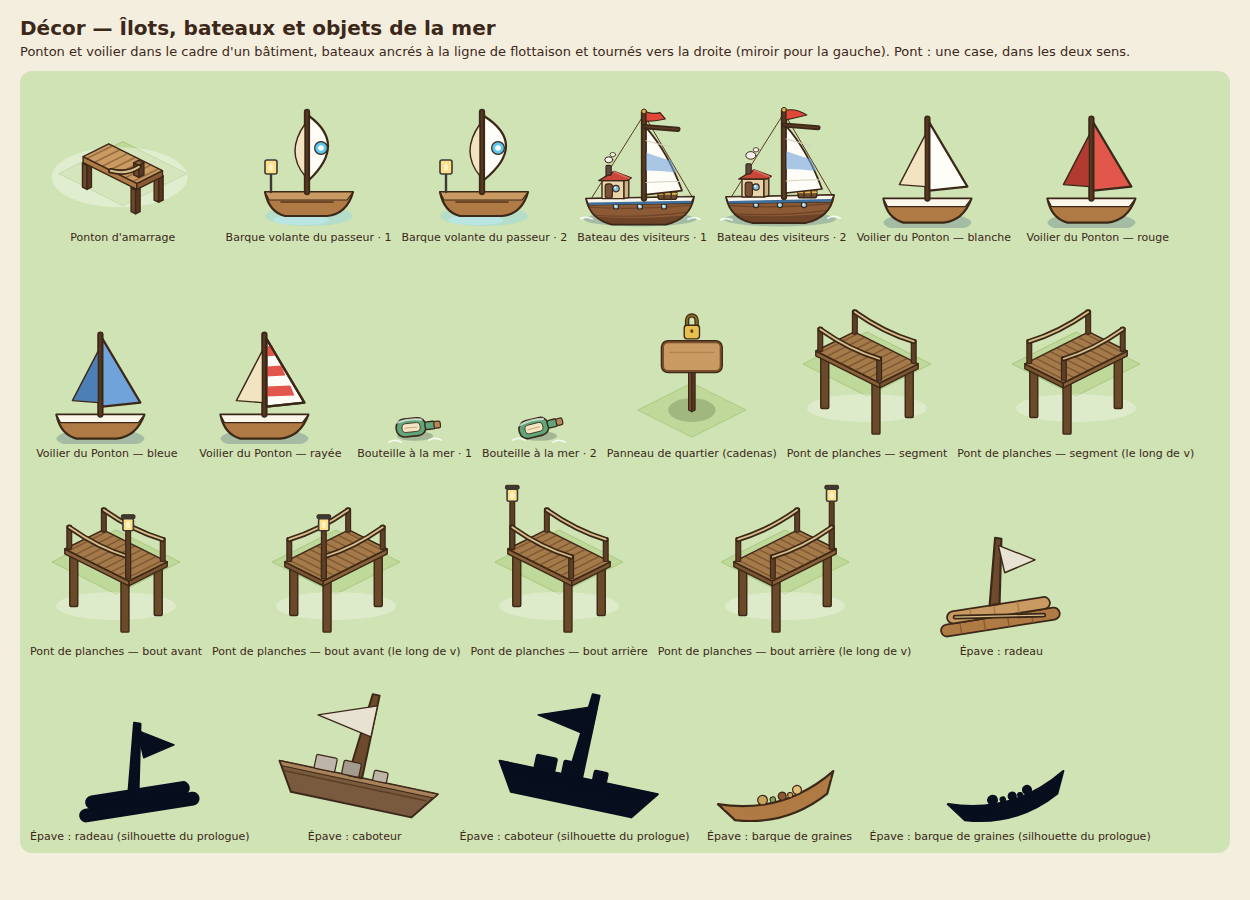
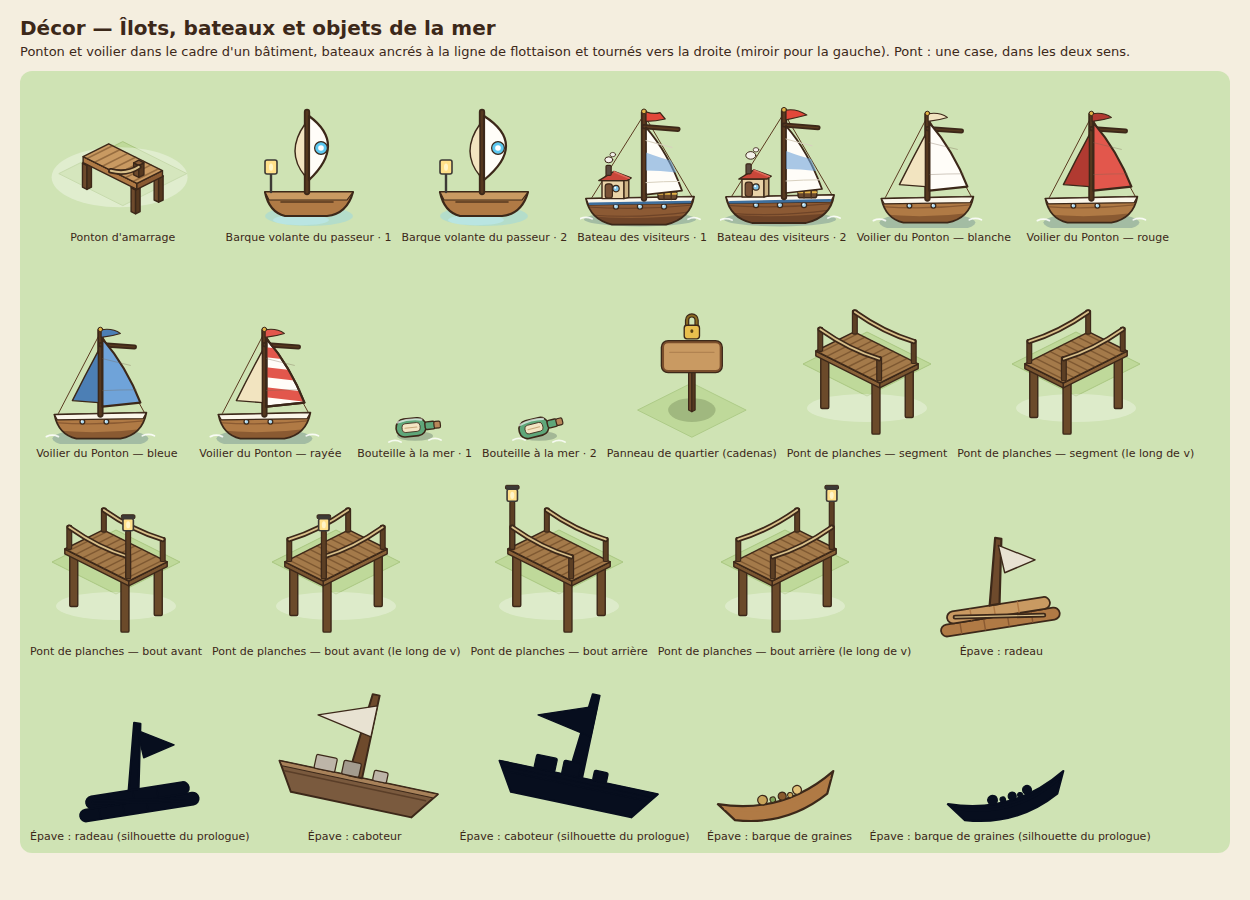
Îlots : le voilier du Ponton refait au niveau des PNJ (4 voiles)
decor2.js : une coque bordée de planches, son ombre basse, son liseré et deux hublots ; le mât, sa vergue, la
grand-voile bombée et ses coutures, le foc, les haubans, la flamme en tête de mât ; l'écume ; les quatre voiles
(blanche, rouge, bleue, rayée : les rayures sont découpées dans la voile bombée). Cadre et ancre du jeu inchangés.
Seuls ce voilier, sa planche et l'aperçu animé changent.

Claude-Session: https://claude.ai/code/session_01NP7EcdxYGHYEMcdzvfuj1h

diff --git a/design/atelier/decor2.js b/design/atelier/decor2.js
@@ -376,15 +376,22 @@ M.bateau_visiteur = { frame: [-30, -56, 62, 64], n: 2, draw: f => {
 const SAILS = { blanche: ['#FFFDF8', '#F2E4C0'], rouge: ['#E2574C', '#B13A31'], bleue: ['#6FA3D9', '#4C7FB5'], rayee: ['stripes', '#E2574C'] };
 M.voilier = { frame: BUILDING_BOX, n: 1, variants: Object.keys(SAILS), draw: (_, sail = 'blanche') => {
   const [x, y] = gp(0.05, 0.5, 0);
-  const s = SAILS[sail];
+  const s = SAILS[sail], X = n => r2(x + n), Y = n => r2(y + n);
   const main = s[0] === 'stripes' ? '#FFFDF8' : s[0], jib = s[0] === 'stripes' ? '#F2E4C0' : s[1];
-  const stripes = s[0] === 'stripes' ? [0, 1, 2].map(k => `<path d="M${x + 1},${y - 40 + k * 10} L${x + 1},${y - 35 + k * 10} L${r2(x + 6 + k * 4.5)},${r2(y - 35.5 + k * 10)} L${r2(x + 4 + k * 4.5)},${r2(y - 40.5 + k * 10)} Z" fill="${s[1]}"/>`).join('') : '';
-  return E(x, y + 6, 22, 5, 'rgba(30,70,110,.25)', 0)
-    + P(`M${x - 22},${y - 6} L${x + 22},${y - 6} Q${x + 18},${y + 5} ${x + 8},${y + 6} L${x - 12},${y + 6} Q${x - 20},${y + 4} ${x - 22},${y - 6} Z`, WOOD.left)
-    + pg([[x - 22, y - 6], [x + 22, y - 6], [x + 19, y - 2], [x - 20, y - 2]], '#FBF6EA', W * 0.7)
-    + tk(`M${x},${y - 6} L${x},${y - 46}`, 1.4, WOOD_DARK.right)
-    + P(`M${x + 1},${y - 44} L${x + 1},${y - 10} L${x + 20},${y - 12} Z`, main) + stripes + (stripes ? P(`M${x + 1},${y - 44} L${x + 1},${y - 10} L${x + 20},${y - 12} Z`, 'none') : '')
-    + P(`M${x - 1},${y - 38} L${x - 1},${y - 12} L${x - 14},${y - 13} Z`, jib, W * 0.8);
+  const voile = `M${X(1)},${Y(-44)} Q${X(13)},${Y(-30)} ${X(20)},${Y(-12)} L${X(1)},${Y(-10)} Z`;
+  const stripes = s[0] === 'stripes' ? `<defs><clipPath id="voilier-voile"><path d="${voile}"/></clipPath></defs><g clip-path="url(#voilier-voile)">${[0, 1, 2].map(k => `<path d="M${X(-2)},${Y(-40 + k * 10)} L${X(24)},${Y(-37 + k * 10)} L${X(24)},${Y(-32 + k * 10)} L${X(-2)},${Y(-35 + k * 10)} Z" fill="${s[1]}"/>`).join('')}</g>` : '';
+  const coque = `M${X(-23)},${Y(-6)} L${X(23)},${Y(-7)} Q${X(21)},${Y(4)} ${X(10)},${Y(6)} L${X(-12)},${Y(6)} Q${X(-21)},${Y(4)} ${X(-23)},${Y(-6)} Z`;
+  return E(x, y + 6, 24, 5, 'rgba(30,70,110,.25)', 0) + line(`M${X(-27)},${Y(5)} q3,-1.4 6,0 M${X(21)},${Y(4.6)} q3,-1.4 6,0`, 0.9, 'rgba(255,255,255,.85)')
+    + line(`M${X(0)},${Y(-47)} L${X(-21)},${Y(-6.6)} M${X(0)},${Y(-47)} L${X(22)},${Y(-7)}`, 0.5, '#5A3A20')
+    + `<defs><clipPath id="voilier-coque"><path d="${coque}"/></clipPath></defs><path d="${coque}" fill="${WOOD.left}"/><g clip-path="url(#voilier-coque)">`
+    + `<path d="M${X(-26)},${Y(1.6)} Q${x},${Y(4.4)} ${X(26)},${Y(0.6)} L${X(26)},${Y(10)} L${X(-26)},${Y(10)} Z" fill="${WOOD.right}"/>` + line(`M${X(-23)},${Y(-2)} Q${x},${Y(-0.4)} ${X(23)},${Y(-3)}`, 0.6, WOOD.right) + '</g>'
+    + `<path d="${coque}" fill="none" stroke="${OUT}" stroke-width="${W}" stroke-linejoin="round"/>`
+    + [-9, 3].map(n => E(x + n, y - 2.4, 1.2, 1.2, '#A8D8F0', W * 0.7) + E(x + n - 0.4, y - 2.8, 0.4, 0.4, '#FFFFFF', 0)).join('')
+    + pg([[x - 23, y - 6], [x + 23, y - 7], [x + 21.4, y - 4], [x - 21.6, y - 3.4]], '#FBF6EA', W * 0.7)
+    + tk(`M${x},${Y(-6)} L${x},${Y(-48)}`, 1.4, WOOD_DARK.right) + tk(`M${x},${Y(-41)} L${X(17)},${Y(-39.8)}`, 0.8, WOOD_DARK.right)
+    + P(voile, main) + stripes + (stripes ? P(voile, 'none') : '') + line(`M${X(1)},${Y(-34)} Q${X(9)},${Y(-32)} ${X(15)},${Y(-30.6)} M${X(1)},${Y(-18)} Q${X(10)},${Y(-18.4)} ${X(18)},${Y(-18.4)}`, 0.5, 'rgba(120,100,80,.35)')
+    + P(`M${X(-1)},${Y(-38)} Q${X(-8)},${Y(-25)} ${X(-14)},${Y(-13)} L${X(-1)},${Y(-12)} Z`, jib, W * 0.8)
+    + P(`M${X(0.4)},${Y(-48.4)} Q${X(6)},${Y(-49.4)} ${X(10)},${Y(-46.6)} Q${X(5.6)},${Y(-45.2)} ${X(0.4)},${Y(-44.6)} Z`, s[0] === 'stripes' ? s[1] : jib, W * 0.6) + E(x, y - 48.6, 1.1, 1.1, '#E2B347', 0.5);
 } };
 // Bouteille échouée : verre vert, bouchon, rouleau de papier ; image 2 : penchée par la vague
 M.bouteille = { frame: [-16, -28, 32, 32], n: 2, draw: f => E(0, 0, 9, 2.4, 'rgba(30,50,60,.25)', 0)
@@ -398,7 +405,8 @@ M.panneau_quartier = { frame: PROP_BOX, n: 1, draw: () => shade(0, 0, 14, 7, 0.2
   + framed(-17, -40, 34, 17, 3, WOOD.top, '#7A4E2C', 1.2) + L([-13, -34], [13, -34], 'rgba(122,78,44,.3)', 0.8)
   + line('M-2.8,-50 v-3 a2.8,2.8 0 0 1 5.6,0 v3', 2.6, OUT) + line('M-2.8,-50 v-3 a2.8,2.8 0 0 1 5.6,0 v3', 1.2, '#8A6A22')
   + rr(-4.5, -50, 9, 8, 1.6, '#E9BF4E', W * 0.9) + E(0, -46.6, 0.9, 1.1, '#5A4214', 0) };
-// Pont de planches sur la mer : une case, le long de u ; lanterne au bout côté terre (bout_avant / bout_arriere)
+// Pont de planches sur la mer : une case, le long de u ; ses piles et leurs ronds dans l'eau, son tablier aux planches
+// clouées, ses garde-corps de corde ; lanterne au bout côté terre, avec son halo (bout_avant / bout_arriere)
 const HS = 22;
 M.pont = { frame: [-40, -46, 80, 86], n: 1, variants: ['segment', 'bout_avant', 'bout_arriere'], draw: (_, kind = 'segment') => {
   const z = 0.15 * HS;
